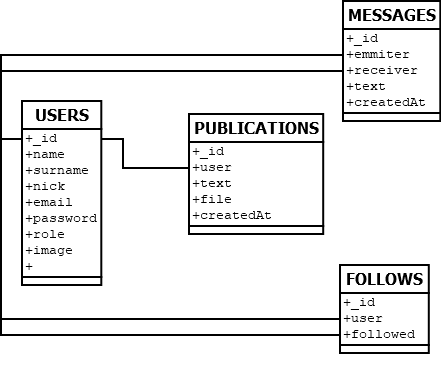
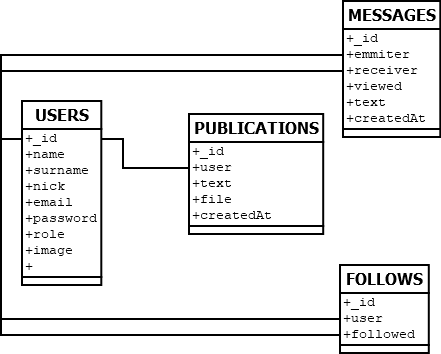
feat: Create base message controller & routes, & edit model

diff --git a/backend/src/message/controllers/message.controller.js b/backend/src/message/controllers/message.controller.js
@@ -1,0 +1,29 @@
+'use strict';
+
+const error = require('@core/models/error.model');
+const FilePublication = require('@publication/models/file-publication.model');
+const fsService = require('@utils/services/fs.service');
+const isImage = require('is-image');
+const mongoosePagination = require('mongoose-pagination');
+const mongooseService = require('@utils/services/mongoose.service');
+const path = require('path');
+const User = require('@user/models/user.model');
+const Publication = require('@publication/models/publication.model');
+const Follow = require('@follow/models/follow.model');
+const utilService = require('@utils/services/util.service');
+
+function hello(req, res) {
+    res.status(200).send({ msg: 'hello world messages !' });
+}
+
+async function create(req, res, next) {
+    try {
+    } catch (err) {
+        next(err);
+    }
+}
+
+module.exports = {
+    hello,
+    create
+};

diff --git a/backend/src/core/app.js b/backend/src/core/app.js
@@ -8,6 +8,7 @@ const handleError = require('@core/middlewares/error-handler.middleware');
 const userRoutes = require('@user/routes/user.routes');
 const followRoutes = require('@follow/routes/follow.routes');
 const publicationRoutes = require('@publication/routes/publication.routes');
+const messageRoutes = require('@message/routes/message.routes');
 
 const app = express();
 config();
@@ -18,6 +19,7 @@ function build() {
     app.use('/api/user', userRoutes);
     app.use('/api/follow', followRoutes);
     app.use('/api/publication', publicationRoutes);
+    app.use('/api/message', messageRoutes);
 }
 
 function config() {

diff --git a/backend/src/message/models/message.model.js b/backend/src/message/models/message.model.js
@@ -6,8 +6,9 @@ const Schema = mongoose.Schema;
 const MessageSchema = Schema({
     emmiter: { type: Schema.ObjectId, ref: 'User' },
     receiver: { type: Schema.ObjectId, ref: 'User' },
-    text: String,
-    createdAt: String
+    viewed: Boolean,
+    text: { type: String, required: true },
+    createdAt: { type: Date, default: Date.now }
 });
 
 module.exports = mongoose.model('Message', MessageSchema);

diff --git a/backend/src/server.js b/backend/src/server.js
@@ -10,7 +10,7 @@ moduleAlias.addAliases({
     '@core': `${__dirname}/core`,
     '@utils': `${__dirname}/utils`,
     '@follow': `${__dirname}/follow`,
-    '@messages': `${__dirname}/messages`,
+    '@message': `${__dirname}/message`,
     '@publication': `${__dirname}/publication`,
     '@user': `${__dirname}/user`,
     '@root': __dirname

diff --git a/backend/src/message/routes/message.routes.js b/backend/src/message/routes/message.routes.js
@@ -1,0 +1,10 @@
+'use strict';
+
+const express = require('express');
+const messageController = require('@message/controllers/message.controller');
+const authMiddleware = require('@core/middlewares/auth.middleware');
+const api = express.Router();
+
+api.get('/hello', authMiddleware, messageController.hello);
+
+module.exports = api;
